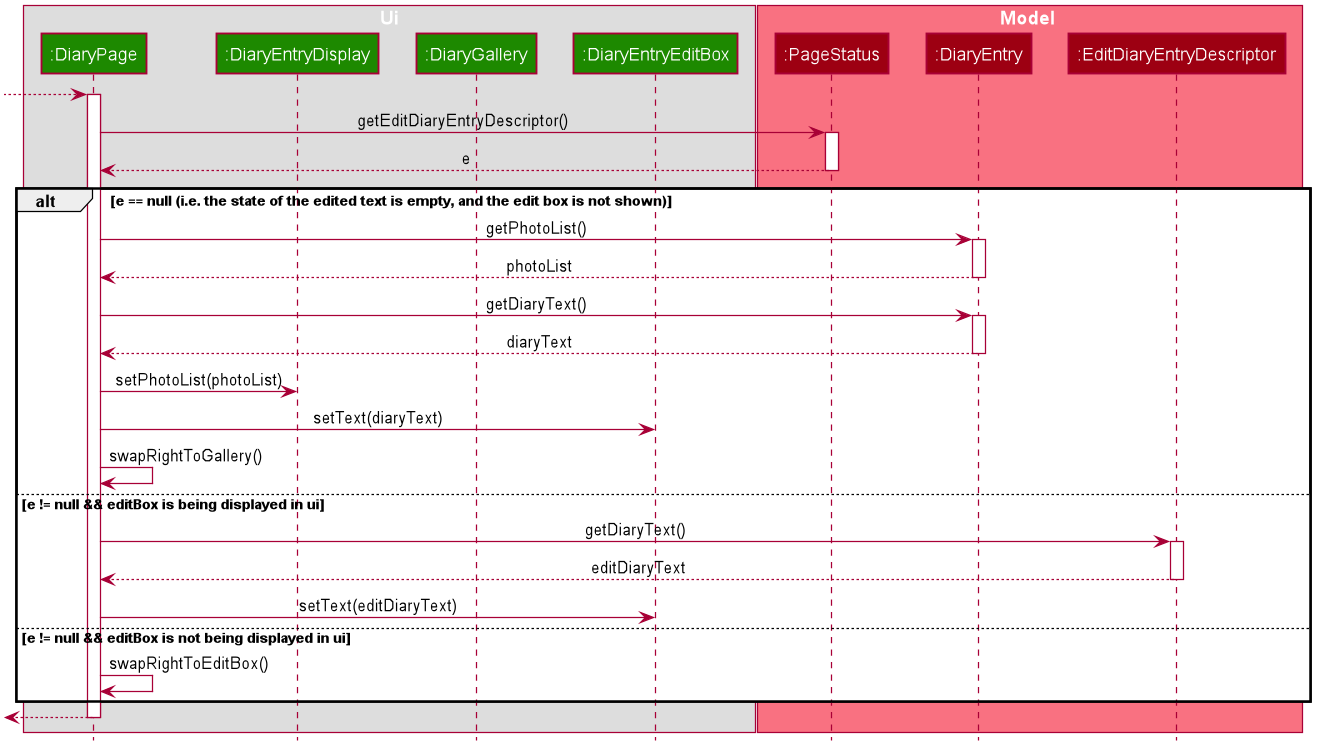
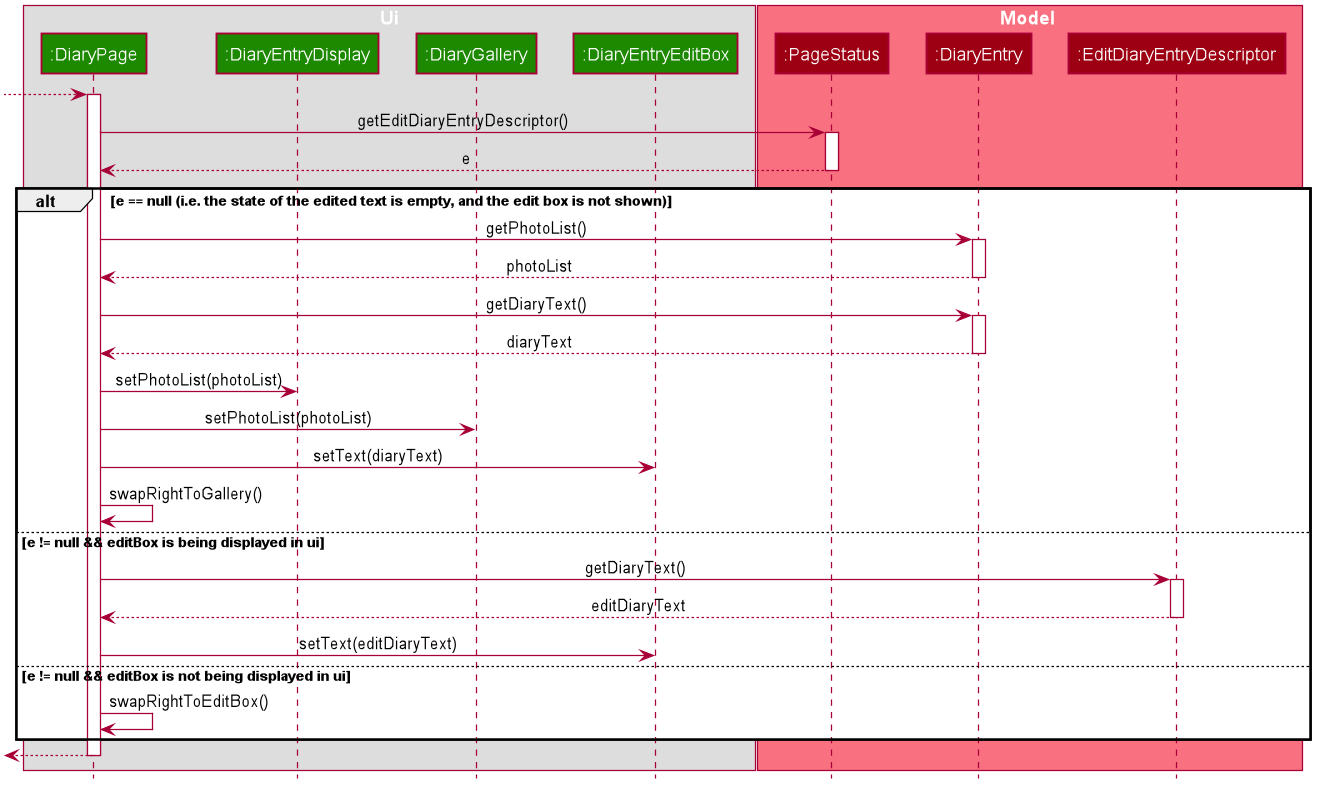
Changes: - Some minor performance optimizations and code reorganization in DiaryPage - Minor uml diagram documentation tweak - Changed CreateDiaryEntryCommand not to show edit box by default

diff --git a/src/main/java/seedu/address/ui/diary/DiaryPage.java b/src/main/java/seedu/address/ui/diary/DiaryPage.java
@@ -98,7 +98,8 @@ public class DiaryPage extends PageWithSidebar<BorderPane> {
                     PREFIX_DESCRIPTION,
                     editBoxText));
 
-            //Workaround for done button click handler not executing, due to loss of focus from edit box event
+            //Workaround for done button click handler not executing
+            //occurring due to loss of focus event from edit box taking priority
             if (doneButton.isPressed()) {
                 doneButton.onMouseClickedProperty().get().handle(null);
             }
@@ -111,6 +112,61 @@ public class DiaryPage extends PageWithSidebar<BorderPane> {
         addButtonBarListeners();
     }
 
+    /**
+     * Initialises the gui buttons used for the gallery or edit box, to be placed under {@code dayRightButtonBar}.
+     */
+    private void initRightPlaceholderButtons() {
+        doneButton = new Button("Done");
+        ButtonBar.setButtonData(doneButton, ButtonBar.ButtonData.LEFT);
+        doneButton.setOnMouseClicked(ev -> mainWindow.executeGuiCommand(DoneEditEntryTextCommand.COMMAND_WORD));
+
+        editButton = new Button("Edit");
+        addPhotoButton = new Button("Add");
+
+        ButtonBar.setButtonData(editButton, ButtonBar.ButtonData.LEFT);
+        ButtonBar.setButtonData(addPhotoButton, ButtonBar.ButtonData.LEFT);
+
+        editButton.setOnMouseClicked(buttonEvent -> mainWindow.executeGuiCommand(ShowTextEditorCommand.COMMAND_WORD));
+        addPhotoButton.setOnMouseClicked(buttonEvent ->
+                mainWindow.executeGuiCommand(AddPhotoCommand.COMMAND_WORD + " " + PREFIX_FILE_CHOOSER));
+    }
+
+    /**
+     * Initialises the {@code diaryEntryPlaceholder}'s background image and adds the {@code diaryEntryDisplay}
+     * as one of its children.
+     */
+    private void initDiaryEntryPlaceholder() {
+        Background diaryEntryBackground = new Background(new BackgroundImage(
+                getImage(DIARY_ENTRY_BACKGROUND_IMAGE),
+                BackgroundRepeat.REPEAT,
+                BackgroundRepeat.REPEAT,
+                BackgroundPosition.CENTER,
+                new BackgroundSize(BACKGROUND_REPEAT_LENGTH, BACKGROUND_REPEAT_LENGTH,
+                        false, false, false, false)));
+        diaryEntryPlaceholder.setBackground(diaryEntryBackground);
+
+        diaryEntryPlaceholder.getChildren().add(diaryEntryDisplay.getRoot());
+    }
+
+    /**
+     * Adds a listener to the sorted list of diary entries to update the {@code dayIndexButtonBar}
+     * whenever a change is detected in the sorted list.
+     * The method {@code fillButtonBar} is called to refresh the {@code dayIndexButtonBar}.
+     */
+    private void addButtonBarListeners() {
+        model.getPageStatus()
+                .getCurrentTripDiaryEntryList()
+                .getDiaryEntrySortedList()
+                .addListener((ListChangeListener<DiaryEntry>) change -> fillButtonBar());
+    }
+
+    /**
+     * The callback method to run after command execution.
+     * If no diary entry is currently being viewed, the method returns immediately.
+     * Otherwise, the user interface is updated based on whether the user is using the {@code diaryEntryEditBox},
+     * as indicated by the null status of {@code editDiaryEntryDescriptor} in the
+     * {@link seedu.address.model.appstatus.PageStatus}.
+     */
     @Override
     public void fillPage() {
         currentEntry = model.getPageStatus().getDiaryEntry();
@@ -126,6 +182,7 @@ public class DiaryPage extends PageWithSidebar<BorderPane> {
 
             diaryEntryDisplay.setPhotoList(currentEntry.getPhotoList());
             diaryEntryEditBox.setText(currentEntry.getDiaryText());
+            diaryGallery.setPhotoList(currentEntry.getPhotoList());
             swapRightToGallery();
         } else if (!diaryRightPlaceholder.getChildren().contains(diaryEntryEditBox.getRoot())) {
             logger.log(Level.INFO, "Diary page is switching to edit box mode.");
@@ -136,31 +193,11 @@ public class DiaryPage extends PageWithSidebar<BorderPane> {
 
             diaryEntryEditBox.setText(editDiaryEntryDescriptor.getDiaryText());
         }
-
-        //Fill bottom gallery / edit window bar depending on which is open
-        fillRightPlaceholderButtons();
-    }
-
-    /**
-     * Initialises the {@code diaryEntryPlaceholder}'s background image and adds the {@code diaryEntryDisplay}
-     * as one of its children.
-     */
-    private void initDiaryEntryPlaceholder() {
-        //Setup background of diary entry display placeholder
-        Background diaryEntryBackground = new Background(new BackgroundImage(
-                getImage(DIARY_ENTRY_BACKGROUND_IMAGE),
-                BackgroundRepeat.REPEAT,
-                BackgroundRepeat.REPEAT,
-                BackgroundPosition.CENTER,
-                new BackgroundSize(BACKGROUND_REPEAT_LENGTH, BACKGROUND_REPEAT_LENGTH,
-                        false, false, false, false)));
-        diaryEntryPlaceholder.setBackground(diaryEntryBackground);
-        diaryEntryPlaceholder.getChildren().add(diaryEntryDisplay.getRoot());
     }
 
     /**
      * Populates the {@code dayIndexButtonBar} with diary day navigation buttons using
-     * the current {@link DiaryEntryList}.
+     * the current {@link DiaryEntry}s contained in current {@link DiaryEntryList} of the trip.
      */
     private void fillButtonBar() {
         DiaryEntryList diaryEntryList = model.getPageStatus().getCurrentTripDiaryEntryList();
@@ -203,41 +240,18 @@ public class DiaryPage extends PageWithSidebar<BorderPane> {
     }
 
     /**
-     * Adds a listener to the sorted list of diary entries to update the button bar whenever it is changed.
+     * Fills the {@code diaryRightPlaceholder} {@link VBox} with the {@code diaryEntryEditBox},
+     * removing the {@code diaryGallery}.
+     * Also updates the {@code diaryRightButtonBar} with the buttons for the edit box.
      */
-    private void addButtonBarListeners() {
-        model.getPageStatus().getCurrentTripDiaryEntryList()
-                .getDiaryEntrySortedList()
-                .addListener((ListChangeListener<DiaryEntry>) change -> fillButtonBar());
-    }
+    private void swapRightToEditBox() {
+        if (!diaryRightPlaceholder.getChildren().contains(diaryEntryEditBox.getRoot())) {
+            ObservableList<Node> placeHolderChildren = diaryRightPlaceholder.getChildren();
+            placeHolderChildren.remove(diaryGallery.getRoot());
+            diaryEntryEditBox.setText(editDiaryEntryDescriptor.getDiaryText());
+            placeHolderChildren.add(diaryEntryEditBox.getRoot());
+            diaryEntryEditBox.requestFocus();
 
-    /**
-     * Initialises the gui buttons used for the gallery or edit box, to be placed under {@code dayRightButtonBar}.
-     */
-    private void initRightPlaceholderButtons() {
-        doneButton = new Button("Done");
-        ButtonBar.setButtonData(doneButton, ButtonBar.ButtonData.LEFT);
-        doneButton.setOnMouseClicked(ev -> mainWindow.executeGuiCommand(DoneEditEntryTextCommand.COMMAND_WORD));
-
-        editButton = new Button("Edit");
-        addPhotoButton = new Button("Add");
-
-        ButtonBar.setButtonData(editButton, ButtonBar.ButtonData.LEFT);
-        ButtonBar.setButtonData(addPhotoButton, ButtonBar.ButtonData.LEFT);
-
-        editButton.setOnMouseClicked(buttonEvent -> mainWindow.executeGuiCommand(ShowTextEditorCommand.COMMAND_WORD));
-        addPhotoButton.setOnMouseClicked(buttonEvent ->
-                mainWindow.executeGuiCommand(AddPhotoCommand.COMMAND_WORD + " " + PREFIX_FILE_CHOOSER));
-    }
-
-    /**
-     * Fills the smaller button bar on the right, depending on whether the gallery or edit box
-     * is currently shown.
-     */
-    private void fillRightPlaceholderButtons() {
-        if (editDiaryEntryDescriptor == null) {
-            fillGalleryButtons();
-        } else {
             fillEditBoxButtons();
         }
     }
@@ -251,37 +265,25 @@ public class DiaryPage extends PageWithSidebar<BorderPane> {
     }
 
     /**
-     * Fills the {@code diaryRightButtonBar} with functional gui buttons for the gallery.
-     */
-    private void fillGalleryButtons() {
-        diaryRightButtonBar.getButtons().clear();
-        diaryRightButtonBar.getButtons().addAll(editButton, addPhotoButton);
-    }
-
-    /**
-     * Fills the {@code diaryRightPlaceholder} {@link VBox} with the {@code diaryEntryEditBox},
-     * removing the {@code diaryGallery}.
-     */
-    private void swapRightToEditBox() {
-        ObservableList<Node> placeHolderChildren = diaryRightPlaceholder.getChildren();
-        placeHolderChildren.remove(diaryGallery.getRoot());
-        diaryEntryEditBox.setText(editDiaryEntryDescriptor.getDiaryText());
-        placeHolderChildren.add(diaryEntryEditBox.getRoot());
-        diaryEntryEditBox.requestFocus();
-    }
-
-    /**
      * Fills the {@code diaryRightPlaceholder} {@link VBox} with the {@code diaryGallery},
      * removing the {@code diaryEntryEditBox}, if the {@code diaryGallery} is not already inside.
-     * Also updates the current {@code photoList} instance of the {@code diaryGallery} to the current
-     * {@code currentEntry}'s photo list.
+     * Also updates the {@code diaryRightButtonBar} with the buttons for the gallery.
      */
     private void swapRightToGallery() {
         if (!diaryRightPlaceholder.getChildren().contains(diaryGallery.getRoot())) {
             ObservableList<Node> placeHolderChildren = diaryRightPlaceholder.getChildren();
             placeHolderChildren.clear();
             placeHolderChildren.add(diaryGallery.getRoot());
+
+            fillGalleryButtons();
         }
-        diaryGallery.setPhotoList(currentEntry.getPhotoList());
+    }
+
+    /**
+     * Fills the {@code diaryRightButtonBar} with functional gui buttons for the gallery.
+     */
+    private void fillGalleryButtons() {
+        diaryRightButtonBar.getButtons().clear();
+        diaryRightButtonBar.getButtons().addAll(editButton, addPhotoButton);
     }
 }

diff --git a/src/main/java/seedu/address/logic/commands/diary/CreateDiaryEntryCommand.java b/src/main/java/seedu/address/logic/commands/diary/CreateDiaryEntryCommand.java
@@ -8,7 +8,6 @@ import seedu.address.logic.commands.CommandResult;
 import seedu.address.logic.commands.exceptions.CommandException;
 import seedu.address.model.Model;
 import seedu.address.model.diary.DiaryEntry;
-import seedu.address.model.diary.EditDiaryEntryDescriptor;
 
 /**
  * {@link Command} that creates a new diary entry with the provided {@code dayIndex}.
@@ -48,11 +47,9 @@ public class CreateDiaryEntryCommand extends Command {
                     model.getPageStatus().getCurrentTripDiary().getDiaryEntry(dayIndex).get()));
         }
 
-        EditDiaryEntryDescriptor editDescriptor = new EditDiaryEntryDescriptor(diaryEntry);
-
         model.setPageStatus(model.getPageStatus()
-                .withNewEditDiaryEntryDescriptor(editDescriptor)
-                .withNewDiaryEntry(diaryEntry));
+                .withNewDiaryEntry(diaryEntry)
+                .withNewEditDiaryEntryDescriptor(null));
 
         return new CommandResult(MESSAGE_CREATE_SUCCESS);
     }
